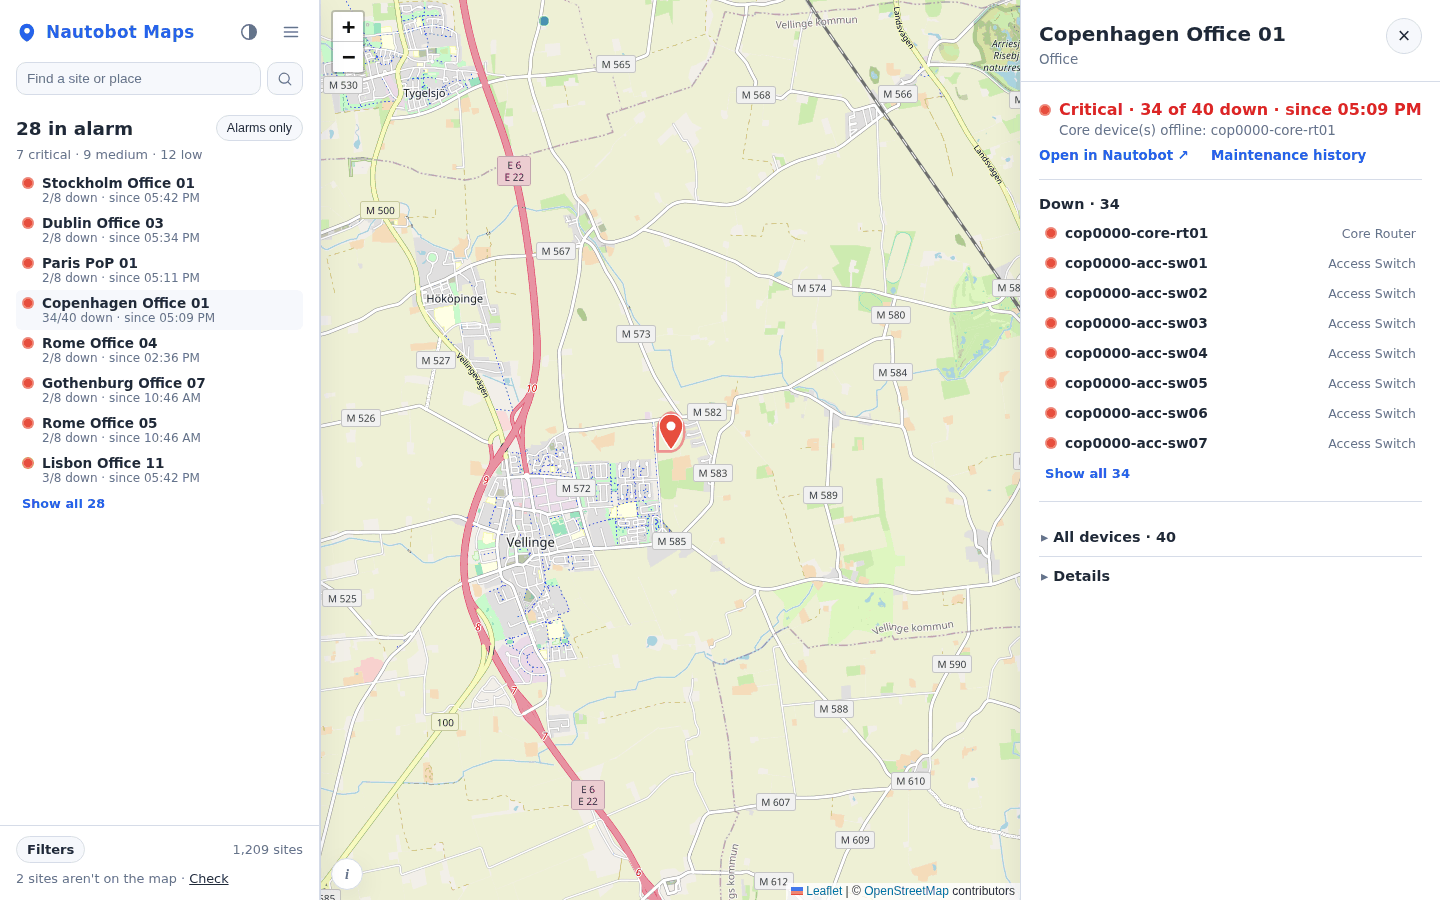
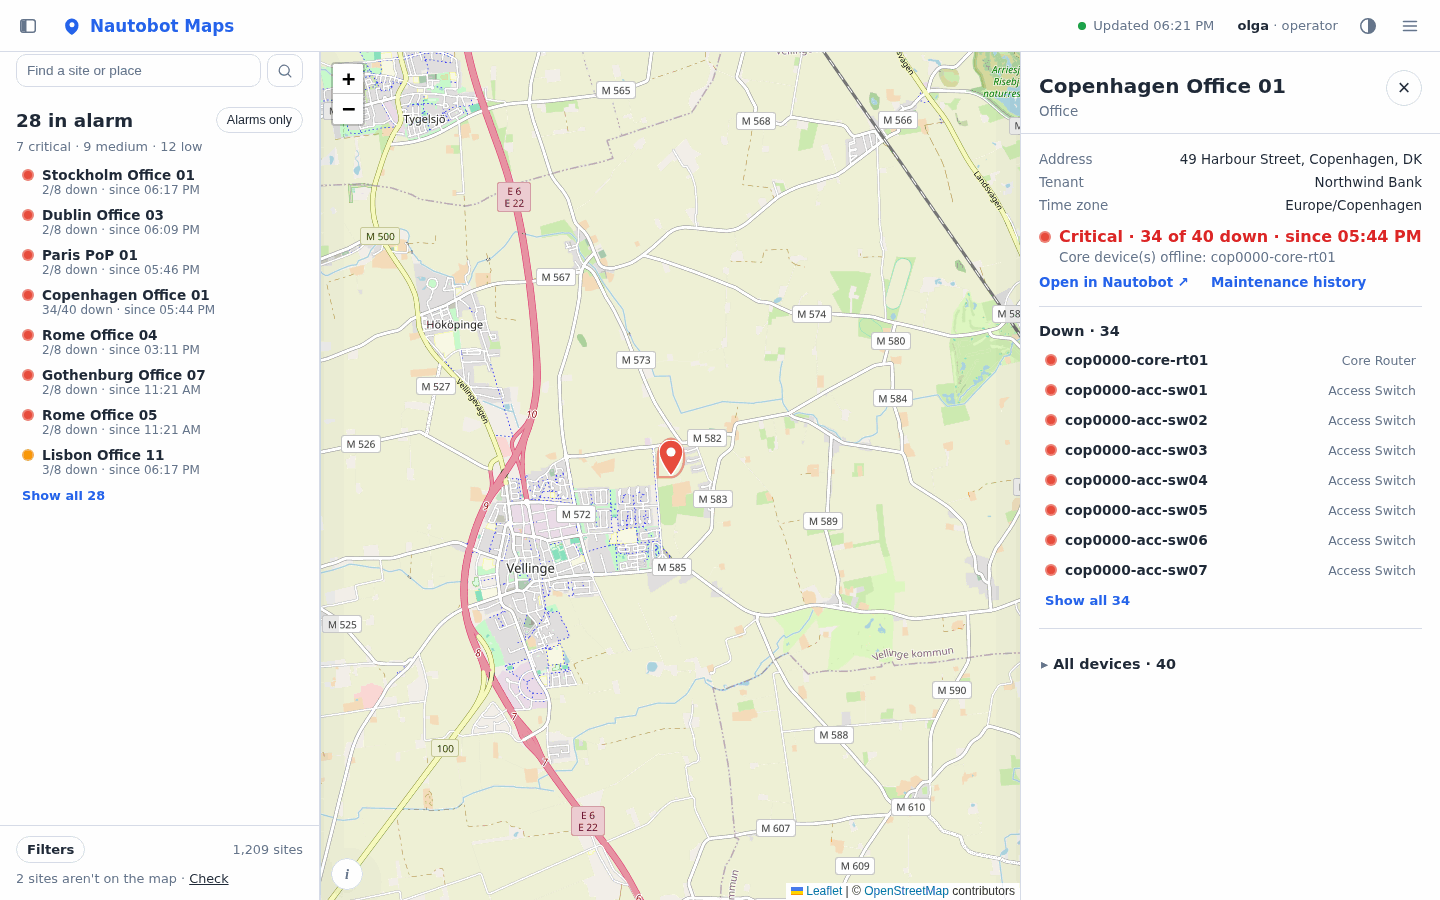
Docs: the README, how it works, configuration, sign-in and SECURITY brought up to date; new screenshots
The features list gains the top bar, the documentation pages, the folding
map panel and the bundled HTTPS sign-in; how it works and the production
checklist point at the bundled proxy; configuration lists its settings; the
code summary follows routes/ and repositories/. Screenshots and the clip are
retaken from the scale demo (octree palette: the green status dot survives).

diff --git a/scripts/screenshots.py b/scripts/screenshots.py
@@ -85,10 +85,12 @@ def with_token(page, base, token):
 
 
 def shoot(page, out, name):
-    """A PNG of 256 colours: a third of the size, the same to the eye."""
+    """A PNG of 256 colours: a third of the size, the same to the eye.  Octree,
+    not median cut: that dropped small, rare colours such as the top bar's
+    green status dot."""
     path = out / f"{name}.png"
     shot = Image.open(io.BytesIO(page.screenshot()))
-    shot.convert("RGB").quantize(colors=256, method=Image.Quantize.MEDIANCUT).save(path, optimize=True)
+    shot.convert("RGB").quantize(colors=256, method=Image.Quantize.FASTOCTREE).save(path, optimize=True)
     print("wrote", path, f"{path.stat().st_size // 1024} KB")
 
 

diff --git a/README.md b/README.md
@@ -10,7 +10,10 @@ Your Nautobot sites on a map, and an alert board that shows which sites are down
 
 Built for a NOC: 1,200+ sites and 10,000+ devices, with 20–30 sites down on a normal day. Lists summarise and put what needs action first.
 
-- **Map** of every Nautobot location with coordinates, coloured by alert level. Sites in alarm or maintenance are always their own pin; the rest cluster, so the sites that need action stand out at any zoom. Click a site for its devices, ASNs and circuits (also those whose description is the site's address, [circuits by address](docs/how-it-works.md#circuits-in-the-site-panel)); one search box finds a site by name or address as you type. Enter opens a full site-name match (case ignored); otherwise it searches a place or `lat,lon`, showing a point, a 5 km circle and nearby sites with distances. The first suggestion follows that same choice; other site matches remain selectable.
+- **Map** of every Nautobot location with coordinates, coloured by alert level. Sites in alarm or maintenance are always their own pin; the rest cluster, so the sites that need action stand out at any zoom.
+  - **Click a site** for its devices, ASNs and circuits, including those whose description is the site's address ([circuits by address](docs/how-it-works.md#circuits-in-the-site-panel)).
+  - **One search box** finds a site by name or address as you type, or a place or `lat,lon` with every site within 5 km.
+  - **The left panel** folds away with the sidebar button for a full-screen map, and still shows the alarm count while folded.
 - **Alert board**: each site's level (Critical, Medium, Low), its down devices with IP, role and down-since time, the likely cause, downtime, tenants and case numbers. It opens on sites with alarms, the ones nobody is on first, and updates itself.
 - **Searchable filters** on the map, board, Availability and Maintenance: type to find a value and tick several. A site matches any pick within a filter and every filter together. Closed controls show one name and **+N**; the map's chips remove individual picks. Enter picks the first match, arrows move, Space ticks in the list, and Escape closes. Lists show at most 50 matches, with a prompt to keep typing; fewer than two choices stay hidden. Staff (viewer, operator, admin) can carry tenant picks in Map / Alert Board / Wall view links and **Copy wall link**, using repeated `?tenant=` values. Customer status pages remain single-tenant, without filters or access to the map or board.
 - **Criticality from Nautobot**: mark which sites and devices matter with custom fields in Nautobot. A gold site makes every down device Critical; one device can be set Critical (or Low) on its own, and the device's field wins. With nothing set, the share of devices down decides, and all down is still Critical. Editing these doesn't page anyone ([set it up](#criticality-in-nautobot)).
@@ -19,12 +22,14 @@ Built for a NOC: 1,200+ sites and 10,000+ devices, with 20–30 sites down on a 
 - **Circuit mapping**: circuits without a termination in Nautobot, grouped by the site their description's address points to (one, several, none), with CSV: the worklist for linking them properly ([circuit mapping](docs/how-it-works.md#circuit-mapping)).
 - **Maintenance windows** for sites or single devices, now or planned ahead: planned work is not an alarm. A history of every window, with CSV.
 - **Availability** per site and tenant for any period, with maintenance left out, and CSV exports down to every incident.
-- **Tenant status page**: "are we affected?" for one tenant, shareable with a customer.
+- **Tenant status page**: "are we affected?" for one tenant, shareable with a customer. A large tenant sees what's wrong first; the operational sites fold into one line.
 - **More sources**: LibreNMS status (optional) next to Nautobot's, pushed within seconds by LibreNMS alerts; Prometheus Alertmanager and a generic webhook can mark devices down.
 - **Notifications** to a webhook, Microsoft Teams or email when a site becomes Critical and when it recovers, summarised, never one per device.
-- **Sign-in and roles** through your SSO proxy (viewer, operator, admin), and **API tokens** for scripts and MCP clients.
+- **One top bar on every page**: find any site, see at a glance whether the data is fresh (amber when a sync is late, red when Nautobot or LibreNMS can't be reached), who is signed in, dark or light, and every page in the ☰ menu.
+- **HTTPS and company sign-in, ready to use**: an optional nginx + oauth2-proxy setup for Entra ID, Keycloak, Okta or Google, or your own SSO proxy. Roles: viewer, operator, admin. **API tokens** cover scripts and MCP clients, and changes sent from other sites are refused.
 - **MCP server** (optional) so AI assistants can read the board and add cases.
 - **Operations**: Prometheus `/metrics`, a `/healthz` probe, JSON logs, released Docker images.
+- **The documentation in the app**: **Documentation** in the ☰ menu shows these guides as pages (`/help`).
 - **Read-only towards Nautobot**: the app never changes anything there, so a read-only API token is enough.
 
 ### Screenshots
@@ -81,6 +86,8 @@ Optional, and read-only like the rest: the app only reads these fields. In Nauto
 Then say what a site's tier makes its devices, e.g. `TIER_DEVICE_LEVEL=gold:critical,silver:medium`. The setting uses the custom field's key, and changing one makes the next sync a full one. How the levels combine: [device and site criticality](docs/alert-board.md#device-and-site-criticality).
 
 ## Documentation
+
+Every guide below is also in the app: **Documentation** in the ☰ menu (`/help`).
 
 | | |
 |---|---|

diff --git a/docs/how-it-works.md b/docs/how-it-works.md
@@ -18,7 +18,7 @@ Nautobot Maps reads your sites and devices from **Nautobot** (read-only), asks *
 | **OpenStreetMap** tiles and **Nominatim** address search | Map background and "search by address" (both replaceable: `MAP_TILE_URL`, `GEOCODER_URL`, or off) | Free defaults; point them at your own servers if needed |
 | **Plain JavaScript (ES modules)** | The pages' code (`static/js/`), no framework, no build step | Nothing to compile; strict Content Security Policy |
 | **Docker / Docker Compose** | Packages the app with PostgreSQL and Redis (`docker-compose.yml`) | One command to start |
-| **nginx or another proxy** *(optional, yours)* | In front of the app for HTTPS and sign-in (SSO: oauth2-proxy, nginx with OIDC/SAML…) | The app has no login screen of its own and doesn't do TLS |
+| **nginx + oauth2-proxy** *(optional, bundled in `deploy/proxy/`)* | In front of the app for HTTPS and company sign-in (any OIDC provider), or your own SSO proxy instead | The app has no login screen of its own and doesn't do TLS: your identity provider signs people in |
 
 The app listens on port 5000 (in Compose, only on `127.0.0.1:5000` of the host). In production you put your proxy in front of it.
 
@@ -124,7 +124,7 @@ This starts three containers: `nautobot-maps` (the app), `postgres` and `redis`.
 ### Production checklist
 
 - Run a **released image**, not a local build ([operations](operations.md#run-a-released-version)).
-- Put a **proxy with HTTPS** in front. For sign-in, `AUTH_MODE=header` with your SSO proxy passing the user and groups; roles are **viewer**, **operator**, **admin** ([sign-in and roles](authentication.md)). Let the app trust identity headers only from the proxy (`AUTH_TRUSTED_PROXIES`).
+- Put **HTTPS and sign-in** in front: the bundled nginx + oauth2-proxy (`COMPOSE_FILE=docker-compose.yml:deploy/proxy/compose.yml` and six settings), or your own SSO proxy with `AUTH_MODE=header`. Roles are **viewer**, **operator** and **admin**, from your groups ([sign-in and roles](authentication.md)). The app trusts identity headers only from the proxy (`AUTH_TRUSTED_PROXIES`, `AUTH_PROXY_SECRET`).
 - Set your own `POSTGRES_PASSWORD` **before the first start**, and back up the database ([backup and restore](operations.md#backup-and-restore)).
 - Optional: LibreNMS (`LIBRENMS_URL`, `LIBRENMS_API_TOKEN`), notifications (`NOTIFY_*`, `SMTP_*`), case links to your ITSM (`CASE_URL_TEMPLATE`), one row per Site (`ALERT_BOARD_SITE_LOCATION_TYPE`), importance tiers (`SITE_TIER_FIELD`), tenant role scopes on status pages (`TENANT_SCOPE_FIELD`), device and site criticality from Nautobot (`DEVICE_CRITICALITY_FIELD`, `TIER_DEVICE_LEVEL`).
 - Monitor `/healthz` and scrape `/metrics` ([monitoring](operations.md#monitoring)).
@@ -153,7 +153,7 @@ The app is designed for **1,200+ sites and 10,000+ devices**, with 20–30 sites
 **Can't (by design or not yet)**
 - **Change Nautobot.** It is read-only: fix a site, device or IP in Nautobot, not here.
 - **Monitor devices itself.** It doesn't ping or poll SNMP; it relies on Nautobot's status, LibreNMS, Alertmanager or webhooks.
-- **Sign people in by itself** or serve HTTPS: that is the proxy's job.
+- **Keep its own user accounts** or passwords: people sign in with your company's identity provider, through the bundled proxy or yours, which also serves HTTPS.
 - **Create tickets in your ITSM.** It stores case numbers and links to them; it doesn't open or close tickets.
 - **Show sites without coordinates on the map** (they are still on the board).
 - **Know the cabling.** "Likely caused by the core router" is a guess from device roles, not from topology.
@@ -161,7 +161,7 @@ The app is designed for **1,200+ sites and 10,000+ devices**, with 20–30 sites
 
 ## The code, briefly
 
-- `app.py`: entry point. `nautobot_maps/`: one module per job (`nautobot`/`librenms` clients, `inventory` sync, `alerts` board, `maintenance`, `availability`, `notify`, `webhooks`, `auth`/`tokens`, `mcp`, `web` routes…).
+- `app.py`: entry point. `nautobot_maps/`: one module per job (`nautobot`/`librenms` clients, `inventory` sync, `alerts` board rules, `maintenance`, `availability`, `notify`, `webhooks`, `auth`/`tokens`, `mcp`, `guide` for these pages…). The routes are in `routes/`, one file per area. The board's database reads and writes are in `repositories/board.py`. `web.py` holds what every page shares: security headers, error pages and the sign-in check.
 - `static/js/`: the pages' JavaScript, one folder per page, shared helpers in `lib/`. `templates/`: the HTML.
-- `tests/` (pytest, about 950 tests) and `e2e/` (Playwright in Chromium). CI runs lint, tests on Python 3.11 and 3.12, a real Nautobot, a Docker smoke test, a dependency audit and CodeQL.
+- `tests/` (pytest, about 1,300 tests) and `e2e/` (Playwright in Chromium). CI runs lint, tests on Python 3.11 and 3.12, a real Nautobot, a Docker smoke test, the bundled sign-in proxy with real nginx, a dependency audit and CodeQL.
 - Development setup: [CONTRIBUTING.md](../CONTRIBUTING.md).

diff --git a/docs/configuration.md b/docs/configuration.md
@@ -117,6 +117,25 @@ See [authentication](authentication.md).
 | `AUTH_REQUIRE_VIEWER` | `false` | Header mode: every page and API (except `/healthz`, `/metrics`) needs at least `viewer` |
 | `ALLOW_UNAUTHENTICATED_WRITES` | `false` | `AUTH_MODE=disabled` only: allow the operator and admin changes without sign-in: criticality overrides, maintenance windows and sending test notifications (logged as a warning) |
 
+### The bundled HTTPS and sign-in proxy
+
+Optional: nginx and oauth2-proxy in front of the app, with `COMPOSE_FILE=docker-compose.yml:deploy/proxy/compose.yml` ([how to set it up](authentication.md#the-bundled-proxy-https-and-company-sign-in-423)). It sets `AUTH_MODE=header`, the trusted proxy and `AUTH_REQUIRE_VIEWER=true` for you.
+
+| Variable | Default | Description |
+|---|---|---|
+| `PUBLIC_HOSTNAME` | required | The host name people open, e.g. `maps.example.com`; the certificate must match it |
+| `OIDC_ISSUER_URL` | required | Your identity provider, e.g. `https://login.microsoftonline.com/<tenant-id>/v2.0` |
+| `OIDC_CLIENT_ID` / `OIDC_CLIENT_SECRET` | required | The app's registration with the identity provider |
+| `AUTH_PROXY_SECRET` | required | A long random value nginx sends to the app (`openssl rand -hex 32`) |
+| `OAUTH2_COOKIE_SECRET` | required | 32 random bytes, base64 URL-safe, for the session cookie |
+| `OIDC_GROUPS_CLAIM` | `groups` | The ID token claim with the user's groups |
+| `OIDC_EMAIL_CLAIM` | `email` | Entra ID: `preferred_username` |
+| `OIDC_SCOPE` | `openid email profile` | The scopes asked for |
+| `PROXY_HTTP_PORT` / `PROXY_HTTPS_PORT` | `80` / `443` | The ports nginx listens on |
+| `PROXY_SUBNET` / `PROXY_IP` | `172.30.0.0/24` / `172.30.0.10` | nginx's own network and address, the one the app trusts; change both if the range is taken |
+
+The certificate goes in `deploy/proxy/certs/` as `fullchain.pem` and `privkey.pem`.
+
 ## Notifications
 
 See [notifications](notifications.md). Each channel is on when its setting is filled in.

diff --git a/CONTRIBUTING.md b/CONTRIBUTING.md
@@ -104,10 +104,14 @@ Everything else lives in modules under `nautobot_maps/` (#165):
   gunicorn in each worker).
 - `nautobot_maps/web.py`: the wiring: security headers and the CSP, error pages, the sign-in
   check, and `web.register(app)`, which registers the routes.
+- `nautobot_maps/guide.py`: the documentation pages at `/help` (#433): `README.md`, `docs/*.md` and
+  this file rendered with markdown-it-py (raw HTML off, GitHub's heading anchors, links between the
+  docs rewritten). A new guide goes in `guide.PAGES`; `tests/test_help_pages.py` checks every
+  internal link lands on a heading.
 - `nautobot_maps/routes/`: the routes, one Flask blueprint per area (#424): `pages` (map, board,
   API explorer), `locations` (the map's API and search), `board` (the board's API: feed, history,
   cases, acks, criticality), `maintenance`, `availability`, `circuits` and `status` (each with
-  its page), `ingest` (LibreNMS, Alertmanager, generic webhook), `admin` (tokens, test
+  its page), `documentation` (`/help`), `ingest` (LibreNMS, Alertmanager, generic webhook), `admin` (tokens, test
   notification, contract), `ops` (health, metrics, app status, MCP, endpoint list), and helpers
   in `common`. `tests/route_table.json` freezes every URL, method and role:
   `python -m tests.test_route_table` rewrites it after a deliberate change.

diff --git a/SECURITY.md b/SECURITY.md
@@ -21,7 +21,7 @@ You should receive a response within 48 hours. If the issue is confirmed, a fix 
 When deploying Nautobot Maps:
 
 - **Never** commit your `.env` file or expose API tokens in source code.
-- Protect the write endpoints: run with `AUTH_MODE=header` behind an authenticating proxy (see [docs/authentication.md](docs/authentication.md)).
-- Run behind a reverse proxy (e.g., Nginx) with TLS in production.
+- Sign people in and serve HTTPS: the bundled nginx + oauth2-proxy (`deploy/proxy/`) does both with your identity provider, or put your own authenticating proxy in front with `AUTH_MODE=header` (see [docs/authentication.md](docs/authentication.md)).
+- Let the app trust identity headers only from that proxy (`AUTH_TRUSTED_PROXIES`, `AUTH_PROXY_SECRET`), and set `AUTH_REQUIRE_VIEWER=true` so nothing is open without a role. Changes sent from other sites are refused (CSRF); with your own proxy, set its session cookie to `SameSite=Lax` as well.
 - Keep dependencies up to date: Dependabot proposes updates weekly, and CI runs `pip-audit`, `npm audit` and a Trivy image scan on every pull request. Deploy from a current release.
 - Restrict network access to your Nautobot instance as appropriate.

diff --git a/docs/authentication.md b/docs/authentication.md
@@ -10,7 +10,7 @@ With `AUTH_MODE=disabled`:
 
 ## With a sign-in proxy
 
-Set `AUTH_MODE=header` and put the app behind a reverse proxy or SSO gateway (e.g. oauth2-proxy, nginx with an OIDC/SAML module) that handles the login and passes the user and their groups in headers.
+Set `AUTH_MODE=header` and put the app behind a reverse proxy or SSO gateway that handles the login and passes the user and their groups in headers. The app ships one ready to use, nginx + oauth2-proxy ([the bundled proxy](#the-bundled-proxy-https-and-company-sign-in-423)); the settings below are what it sets for you, and what your own proxy needs.
 
 ```dotenv
 AUTH_MODE=header
